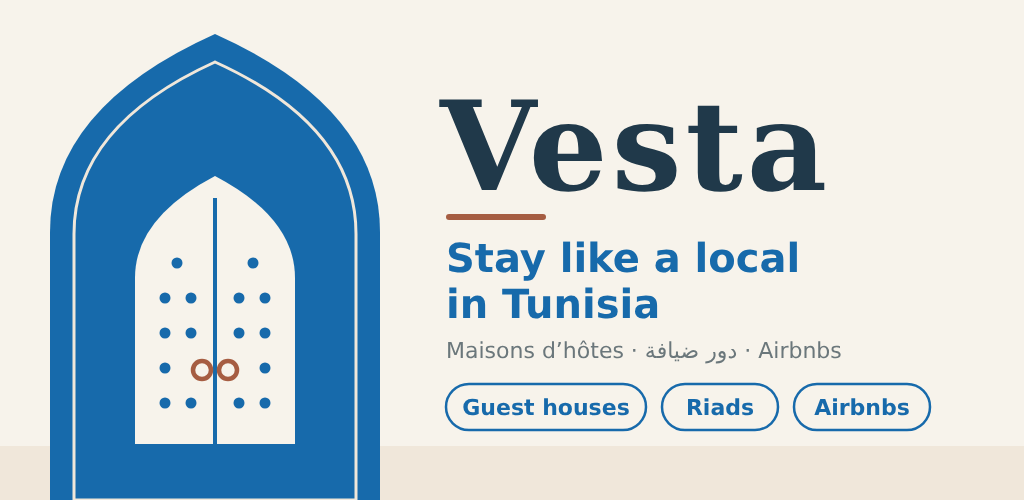
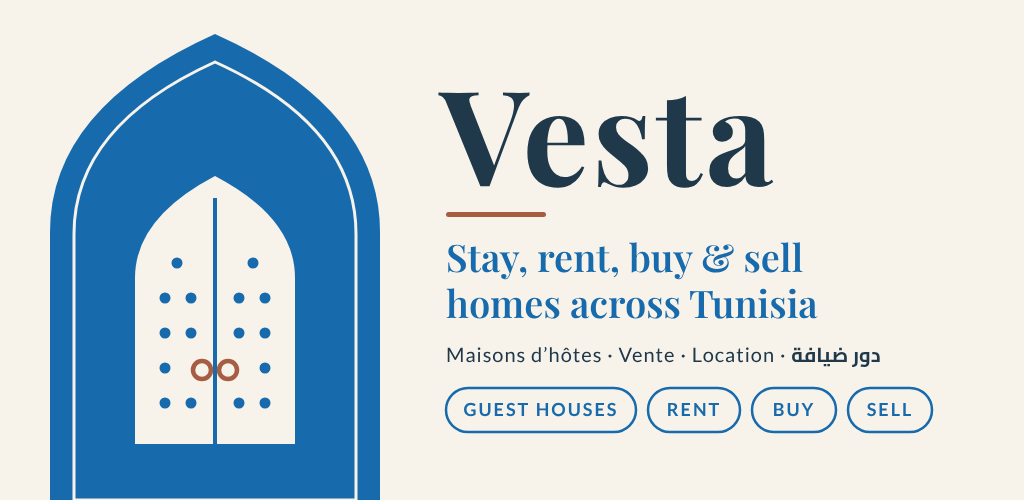
docs(brand): elegant fonts and buy/sell wording on the Play feature graphic [VST-94]
Playfair Display + Lato + Cairo (OFL), theme colors only, chips for
guest houses, rent, buy and sell.

Claude-Session: https://claude.ai/code/session_01BJ5CdZzpYRRPyjiJRHhEsw

diff --git a/docs/brand/README.md b/docs/brand/README.md
@@ -30,7 +30,7 @@ These are the Figma palette values, also used in `app_colors.dart` (Flutter) and
 
 ## How the logo was made
 
-**Updated 24 Oct 2026 (VST-94):** the four PNG files were replaced by an original design drawn in SVG (sources in `docs/brand/src/`, door mark alone in `logo-mark.svg`): a pointed-arch Tunisian studded door, in the Figma palette only (blue `#176AAB`, cream `#F7F3EB`, navy `#20394A`, terracotta `#A65D42`). Re-generate the PNGs from the SVG sources if the design changes. The first version came from logomaker.com and is no longer used.
+**Updated 24 Oct 2026 (VST-94):** the four PNG files were replaced by an original design drawn in SVG (sources in `docs/brand/src/`, door mark alone in `logo-mark.svg`): a pointed-arch Tunisian studded door, in the Figma palette only (blue `#176AAB`, cream `#F7F3EB`, navy `#20394A`, terracotta `#A65D42`). Fonts of the feature graphic: Playfair Display, Lato and Cairo (SIL Open Font License, free for commercial use, embedded in `src/feature.svg`). Re-generate the PNGs from the SVG sources if the design changes. The first version came from logomaker.com and is no longer used.
 
 ## License status
 
